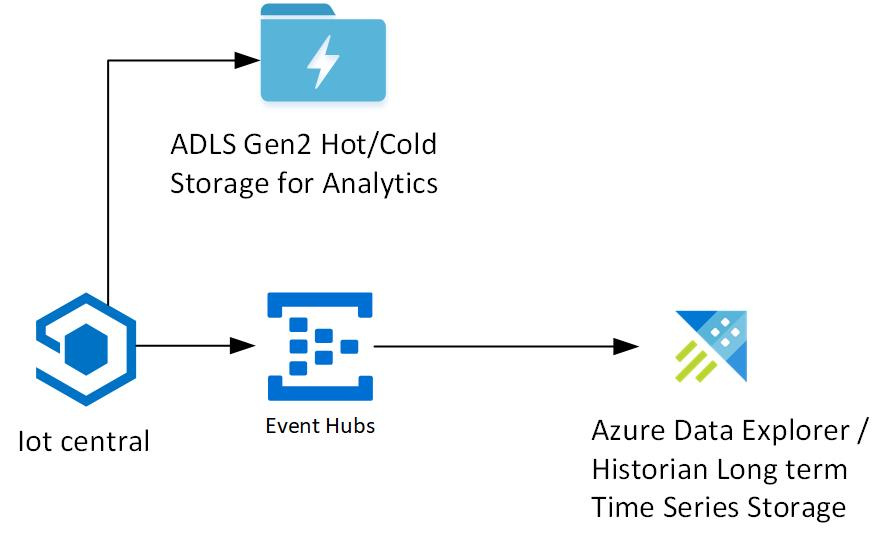
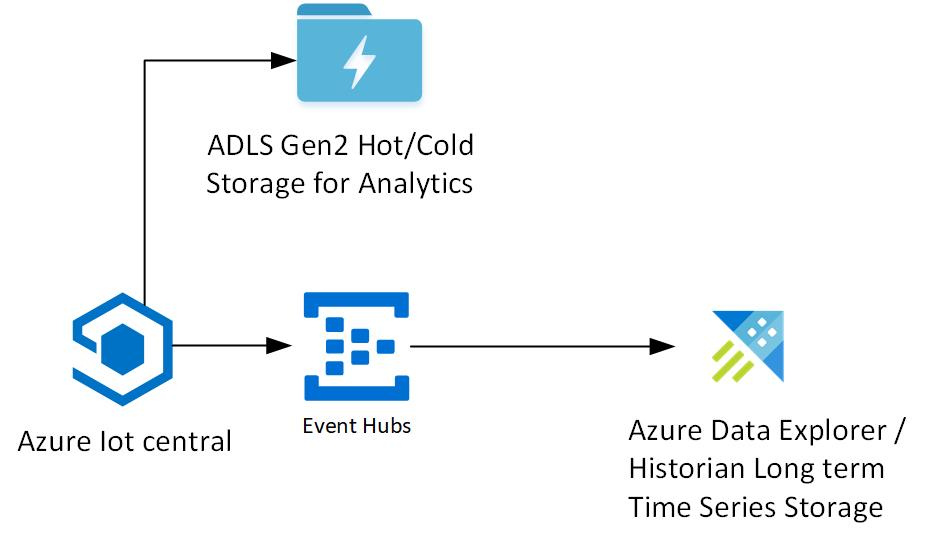
image updated

diff --git a/IIoT/iotcentraltoADX.md b/IIoT/iotcentraltoADX.md
@@ -1,4 +1,4 @@
-# IoT Central Export data to Azure Data Explorer and ADLS gen2 for long term storage.
+# Azure IoT Central Export data to Azure Data Explorer and ADLS gen2 for long term storage.
 
 ## Using mxchips to push data out to Azure IoT Central to Azure Data Explorer.
 
